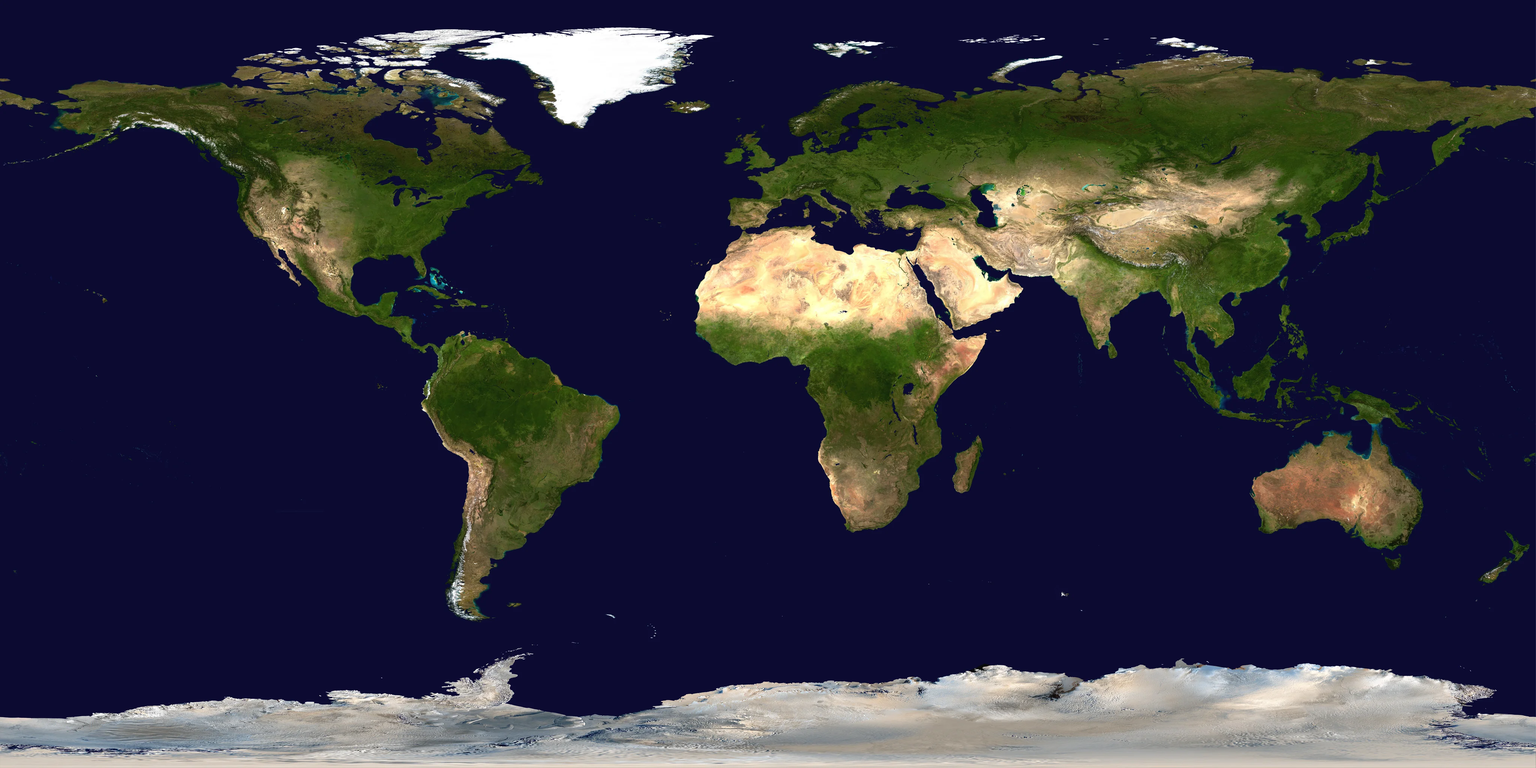
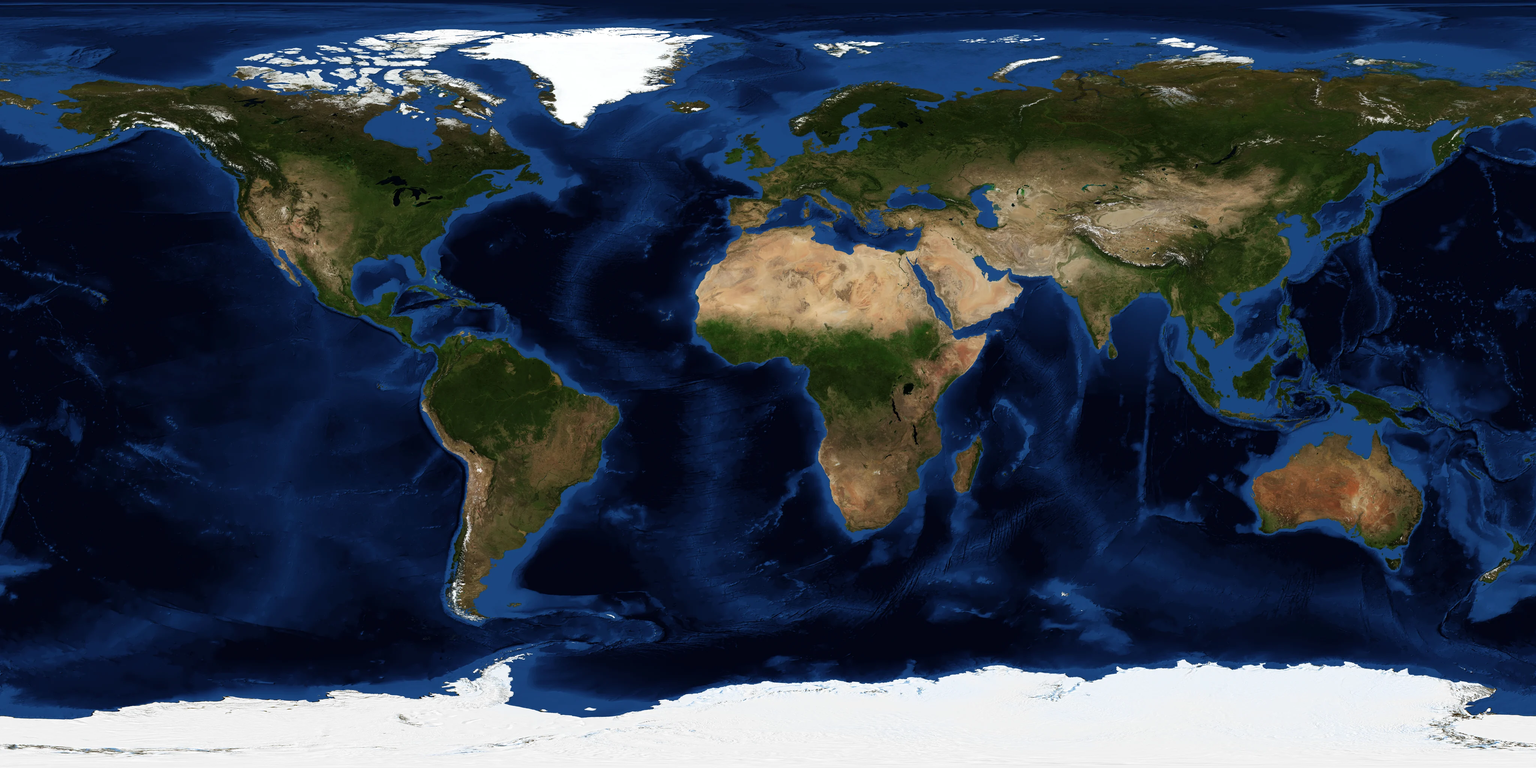
Globe: same December bathy composite, five times the texels
The 8k swap in the previous commit traded the look for the resolution: the
only 8k Blue Marble I could reach was the land + shallow-water composite,
which is a summer globe with flat navy oceans. Wrong call — the winter
composite with shaded relief and bathymetry is the one worth keeping.

It turns out that composite is available above 4k, just not from Visible
Earth directly (eoimages times out; Wikimedia caps thumbnails at 3840px).
NASA GIBS serves it as WMTS tiles: BlueMarble_ShadedRelief_Bathymetry on
EPSG:4326, where the 500m set's level 5 is 40x20 tiles of 512px, i.e. the
20480x10240 native composite. Stitched all 800 tiles and downscaled.

Against the old 4096 texture that is a mean absolute channel difference of
9/9/11 and 91% of pixels within 12 levels — the same image, 25x the pixels
in the source, 4x in the shipped texture. The Himalaya close-up is the
proof: individual Tibetan lakes and ridgelines where the old file had mush.

Same 8192/4096 WebP pair and the same retina/maxTextureSize guard, so only
the two asset files changed. Cache: globe-view v15.

diff --git a/dist/globe-view.js b/dist/globe-view.js
@@ -17,11 +17,12 @@
   // Base tube radius (world units, at the home distance) — the tick loop
   // thins tubes as you zoom in so the on-screen line weight stays ~constant.
   const ARC_R = 0.0014;
-  // Blue Marble, vendored rather than hotlinked from unpkg. The old 4k CDN
-  // texture was the reason the globe read soft: at a 100° span on a 2x
-  // display it was upscaled ~2x. The 8k copy is 4x the texels; the 4k copy
-  // stays as the fallback for 1x displays and GPUs that cap textures at
-  // 8192 (older phones), where the big one costs VRAM and buys nothing.
+  // Blue Marble (shaded relief + bathymetry), vendored rather than hotlinked
+  // from unpkg. Same composite the CDN file used — this now comes from NASA
+  // GIBS, stitched at 20480×10240 and downscaled, so the globe keeps its
+  // winter look at 5x the texels. The 4k copy is the fallback for 1x
+  // displays and GPUs that cap textures at 8192 (older phones), where the
+  // big one costs VRAM and buys nothing.
   const EARTH_TEX_8K = 'extra-pictures/earth/blue-marble-8192.webp';
   const EARTH_TEX_4K = 'extra-pictures/earth/blue-marble-4096.webp';
 

diff --git a/globe-view.jsx b/globe-view.jsx
@@ -10,11 +10,12 @@
   // Base tube radius (world units, at the home distance) — the tick loop
   // thins tubes as you zoom in so the on-screen line weight stays ~constant.
   const ARC_R = 0.0014;
-  // Blue Marble, vendored rather than hotlinked from unpkg. The old 4k CDN
-  // texture was the reason the globe read soft: at a 100° span on a 2x
-  // display it was upscaled ~2x. The 8k copy is 4x the texels; the 4k copy
-  // stays as the fallback for 1x displays and GPUs that cap textures at
-  // 8192 (older phones), where the big one costs VRAM and buys nothing.
+  // Blue Marble (shaded relief + bathymetry), vendored rather than hotlinked
+  // from unpkg. Same composite the CDN file used — this now comes from NASA
+  // GIBS, stitched at 20480×10240 and downscaled, so the globe keeps its
+  // winter look at 5x the texels. The 4k copy is the fallback for 1x
+  // displays and GPUs that cap textures at 8192 (older phones), where the
+  // big one costs VRAM and buys nothing.
   const EARTH_TEX_8K = 'extra-pictures/earth/blue-marble-8192.webp';
   const EARTH_TEX_4K = 'extra-pictures/earth/blue-marble-4096.webp';
 

diff --git a/index.html b/index.html
@@ -58,7 +58,7 @@
 <!-- Pre-compiled from JSX — no Babel needed in the browser -->
 <script src="dist/shared.js?v=14"></script>
 <script src="dist/map-view.js?v=24"></script>
-<script src="dist/globe-view.js?v=14"></script>
+<script src="dist/globe-view.js?v=15"></script>
 <script src="dist/panels.js?v=14"></script>
 <script src="dist/app.js?v=22"></script>
 <script src="dist/calendar.js?v=9"></script>

diff --git a/extra-pictures/CREDITS.md b/extra-pictures/CREDITS.md
@@ -6,11 +6,13 @@ Trip photos are vendored locally so the site has no hotlinked images.
 
 | File | Author | License |
 |---|---|---|
-| `earth/blue-marble-8192.webp` · `earth/blue-marble-4096.webp` | NASA/Goddard Space Flight Center — *Blue Marble: Land Surface, Shallow Water, and Shaded Topography* (Reto Stöckli; ocean colour and composite by Robert Simmon; 24000×12000 assembly by HighInBC) | Public domain |
+| `earth/blue-marble-8192.webp` · `earth/blue-marble-4096.webp` | NASA/Goddard Space Flight Center — *Blue Marble: Land Surface, Shallow Water, and Shaded Topography* (Reto Stöckli; ocean colour and composite by Robert Simmon) | Public domain |
 
-Sourced from Wikimedia Commons (`File:Whole world - land and oceans 12000.jpg`,
-itself from NASA Visible Earth), downscaled to 8192×4096 and 4096×2048, encoded
-WebP q85.
+Stitched from NASA GIBS WMTS layer `BlueMarble_ShadedRelief_Bathymetry`
+(EPSG:4326, `500m`, level 5 = 40×20 tiles = 20480×10240 px), then downscaled to
+8192×4096 and 4096×2048 and encoded WebP q86. GIBS serves the same public-domain
+Visible Earth composite with bathymetry, which is what the old hotlinked
+`unpkg.com/three-globe` texture was — at five times the linear resolution.
 
 ## Added Nov 2026 — China E1 (Hongcun night)
 
